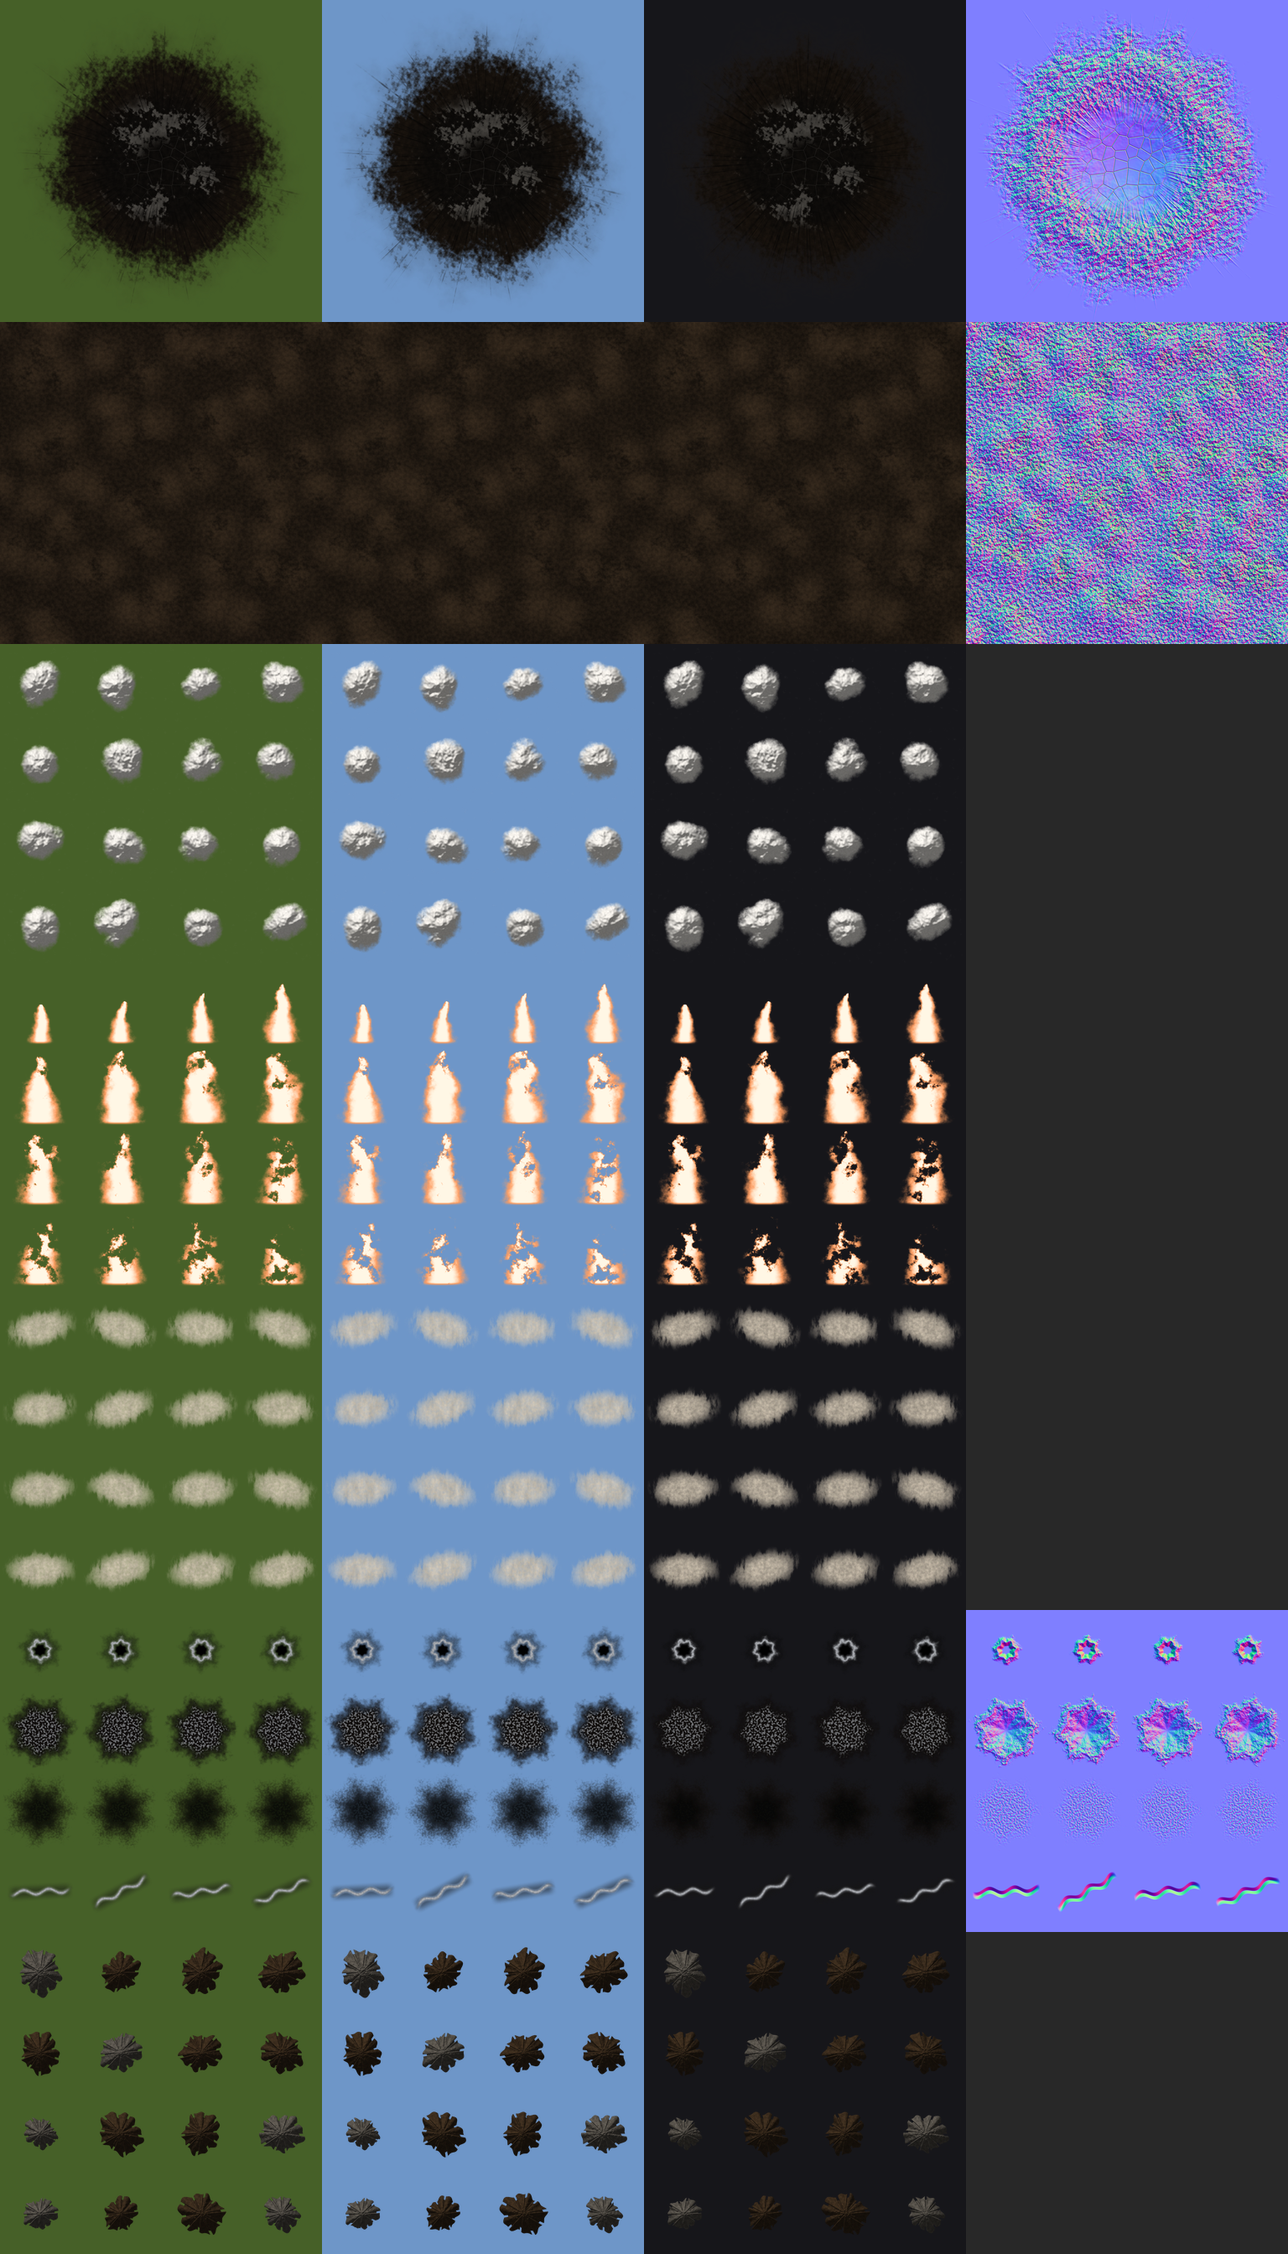
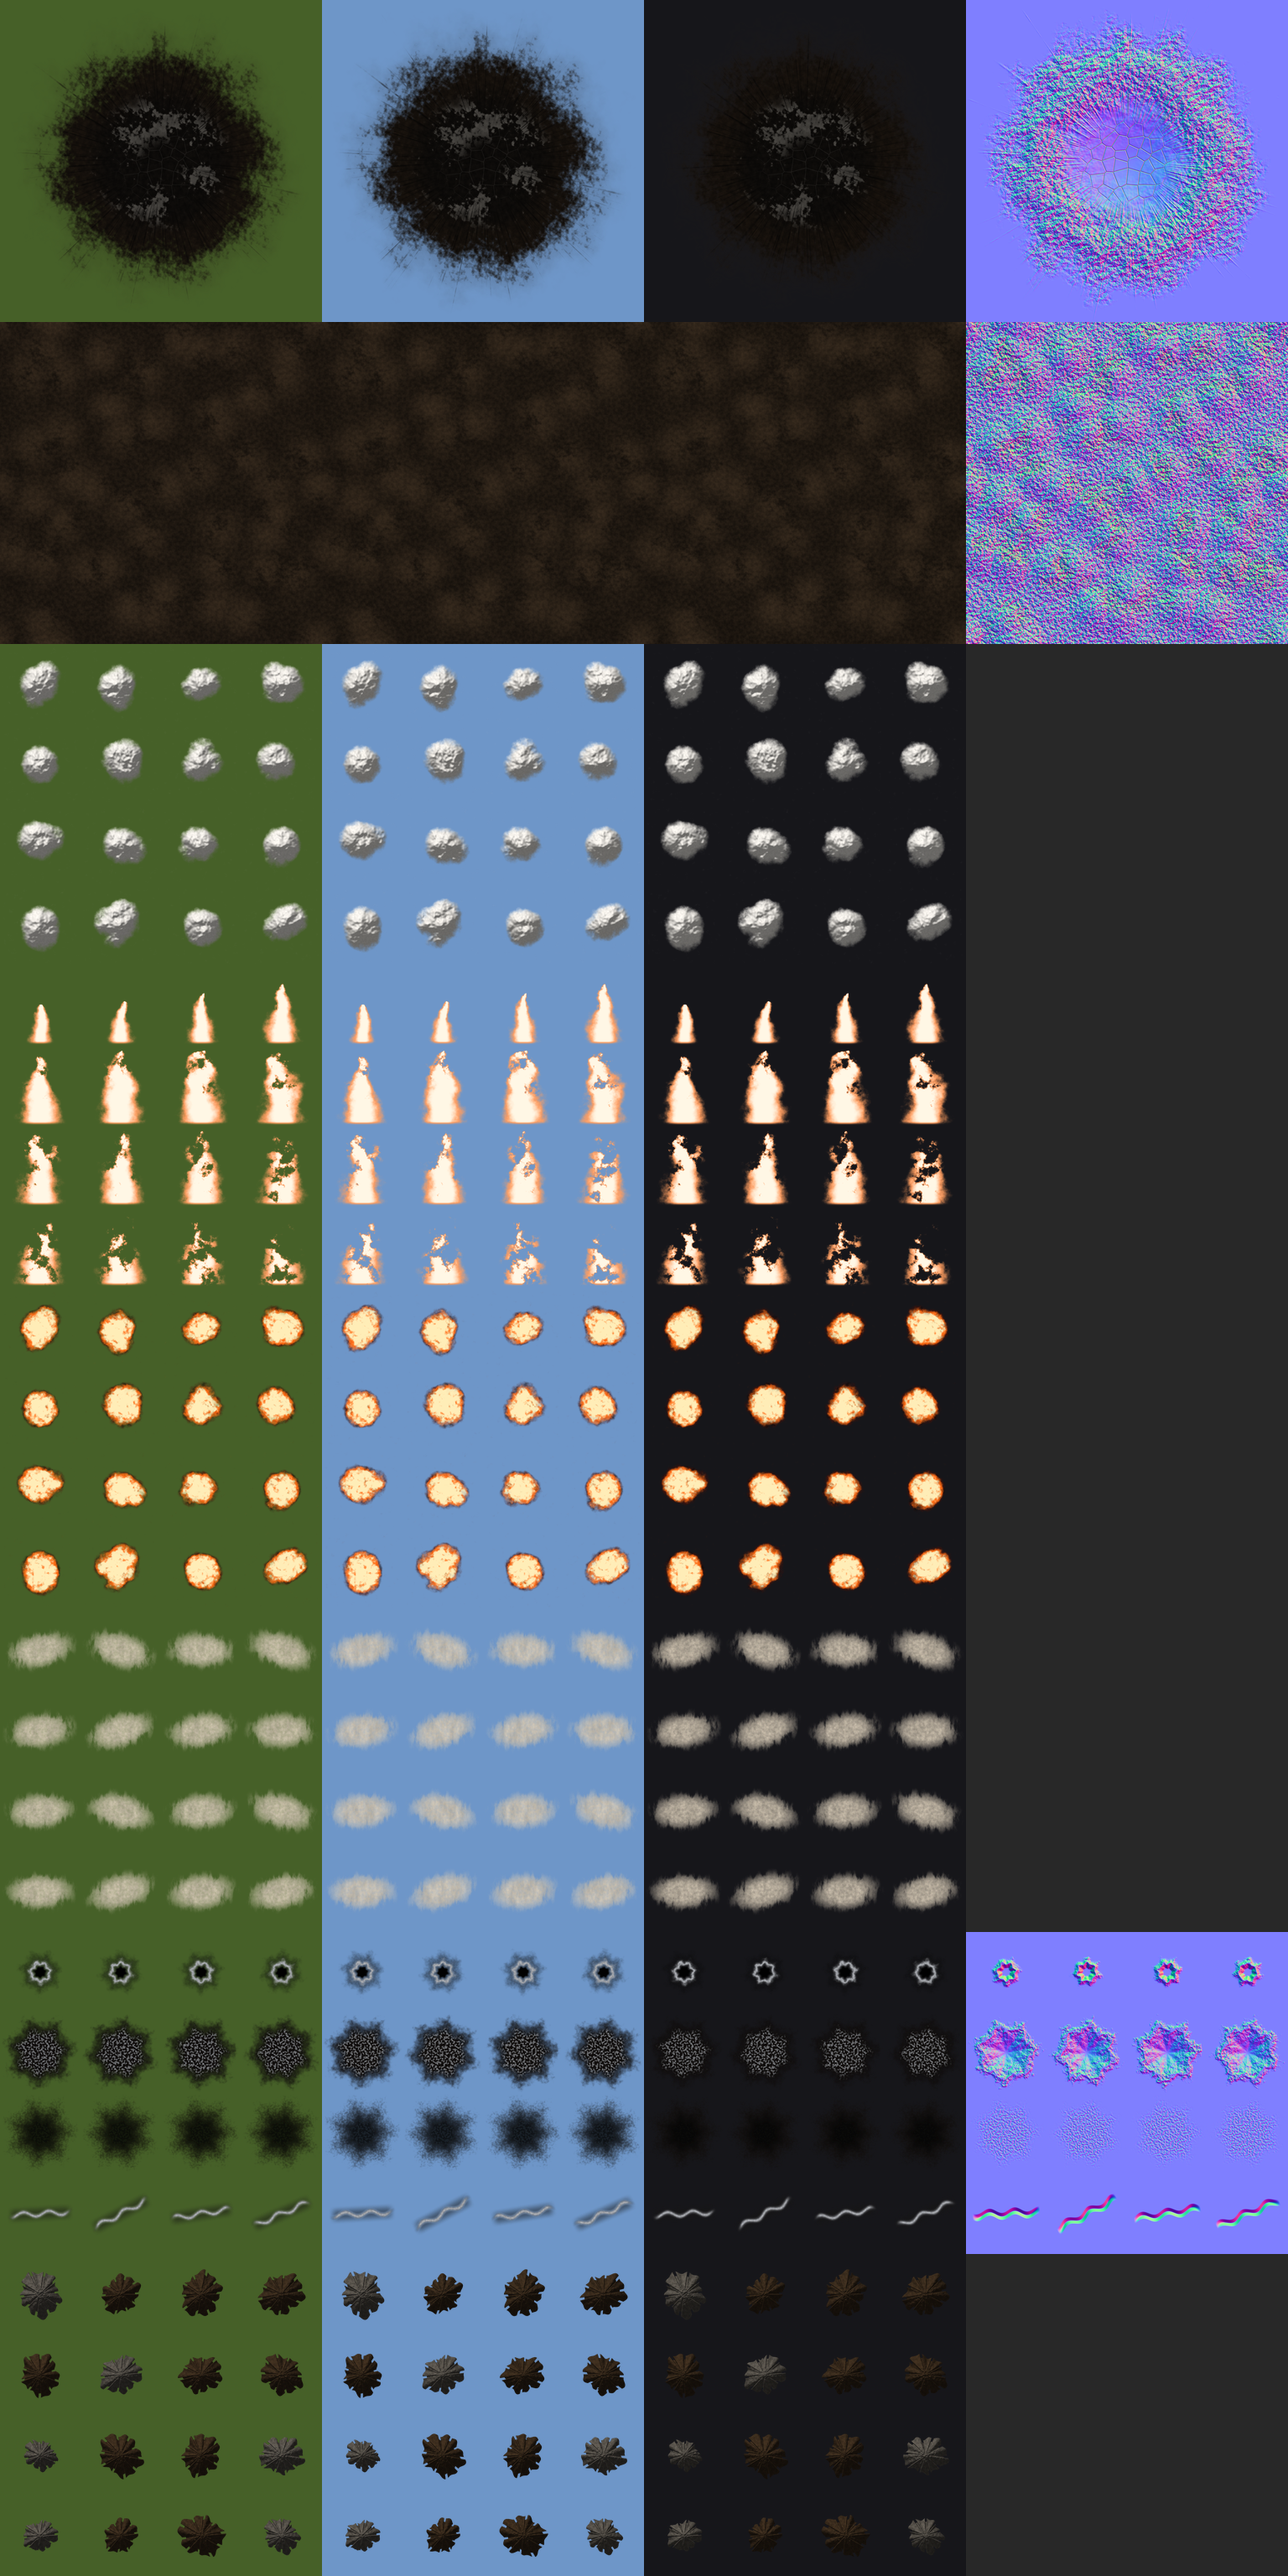
Fireball puffs: render the sheet headless and add it to the fx contact sheet
Material Maker 174f15e on lavapipe, 2048 px, then tools/materials/postprocess.py.
16 cells of the smoke puffs' own silhouettes (alpha IoU 0.97 against smoke_puffs)
with white-yellow cores and orange to deep red folds. The other fx sheets
re-rendered byte-identical.

diff --git a/assets/textures/fx/fireball_puffs/SOURCE.md b/assets/textures/fx/fireball_puffs/SOURCE.md
@@ -1,0 +1,3 @@
+# fireball_puffs
+
+Rendered from `tools/materials/ptex/fireball_puffs.ptex` by Material Maker 174f15e, headless on lavapipe (`material-maker-headless` skill), then `tools/materials/postprocess.py`: maps albedo at 1024 px. Use: a fireball's billows, the smoke puffs' shapes burning, cross-faded into smoke as they cool.
